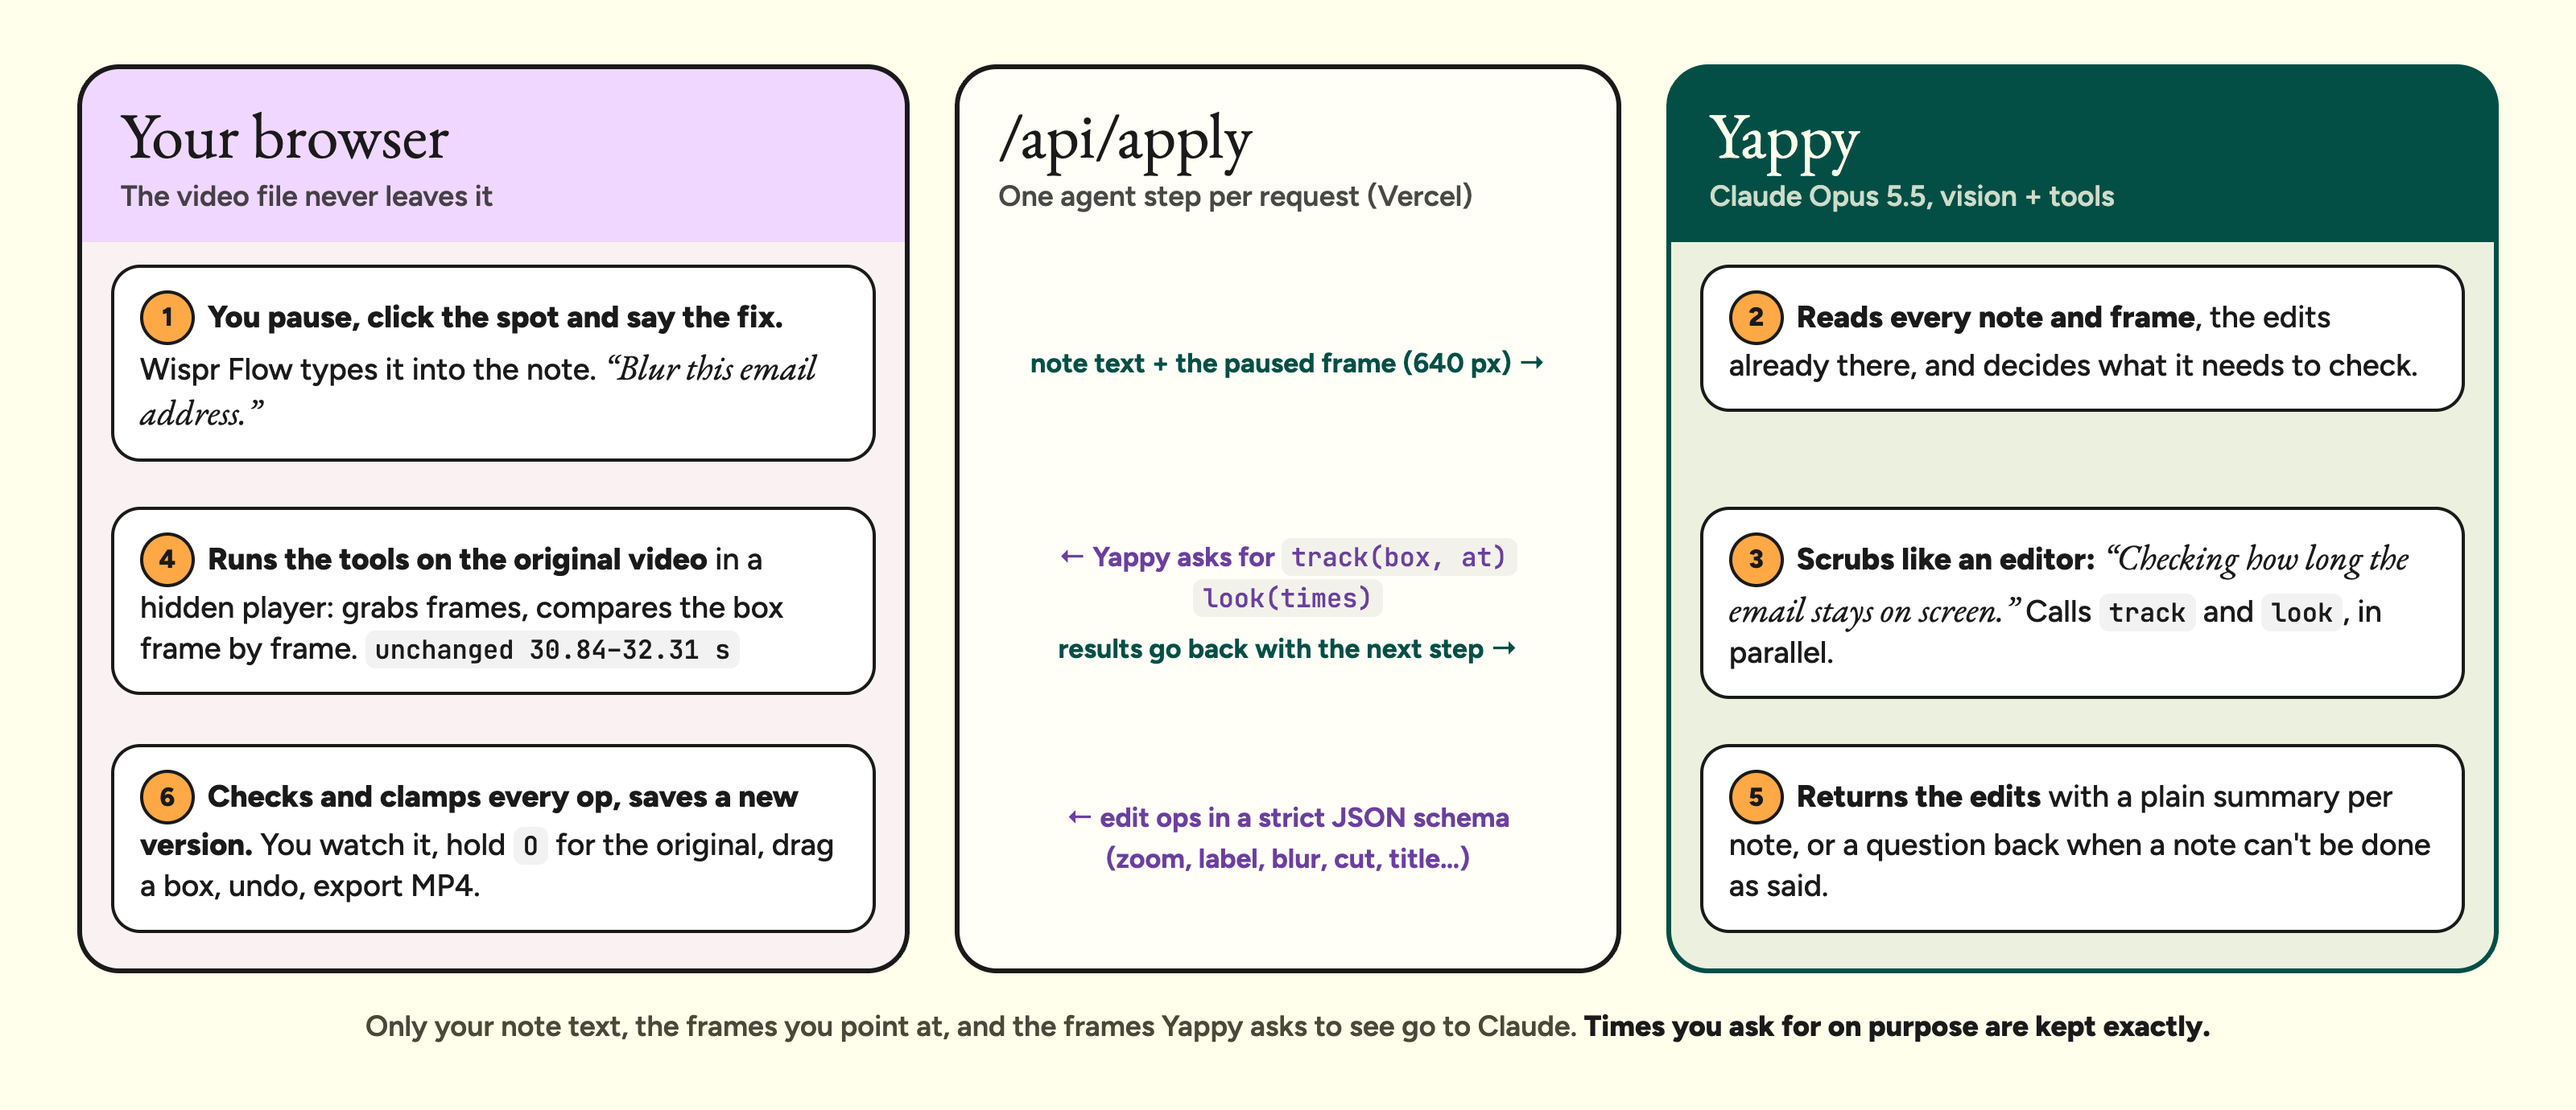
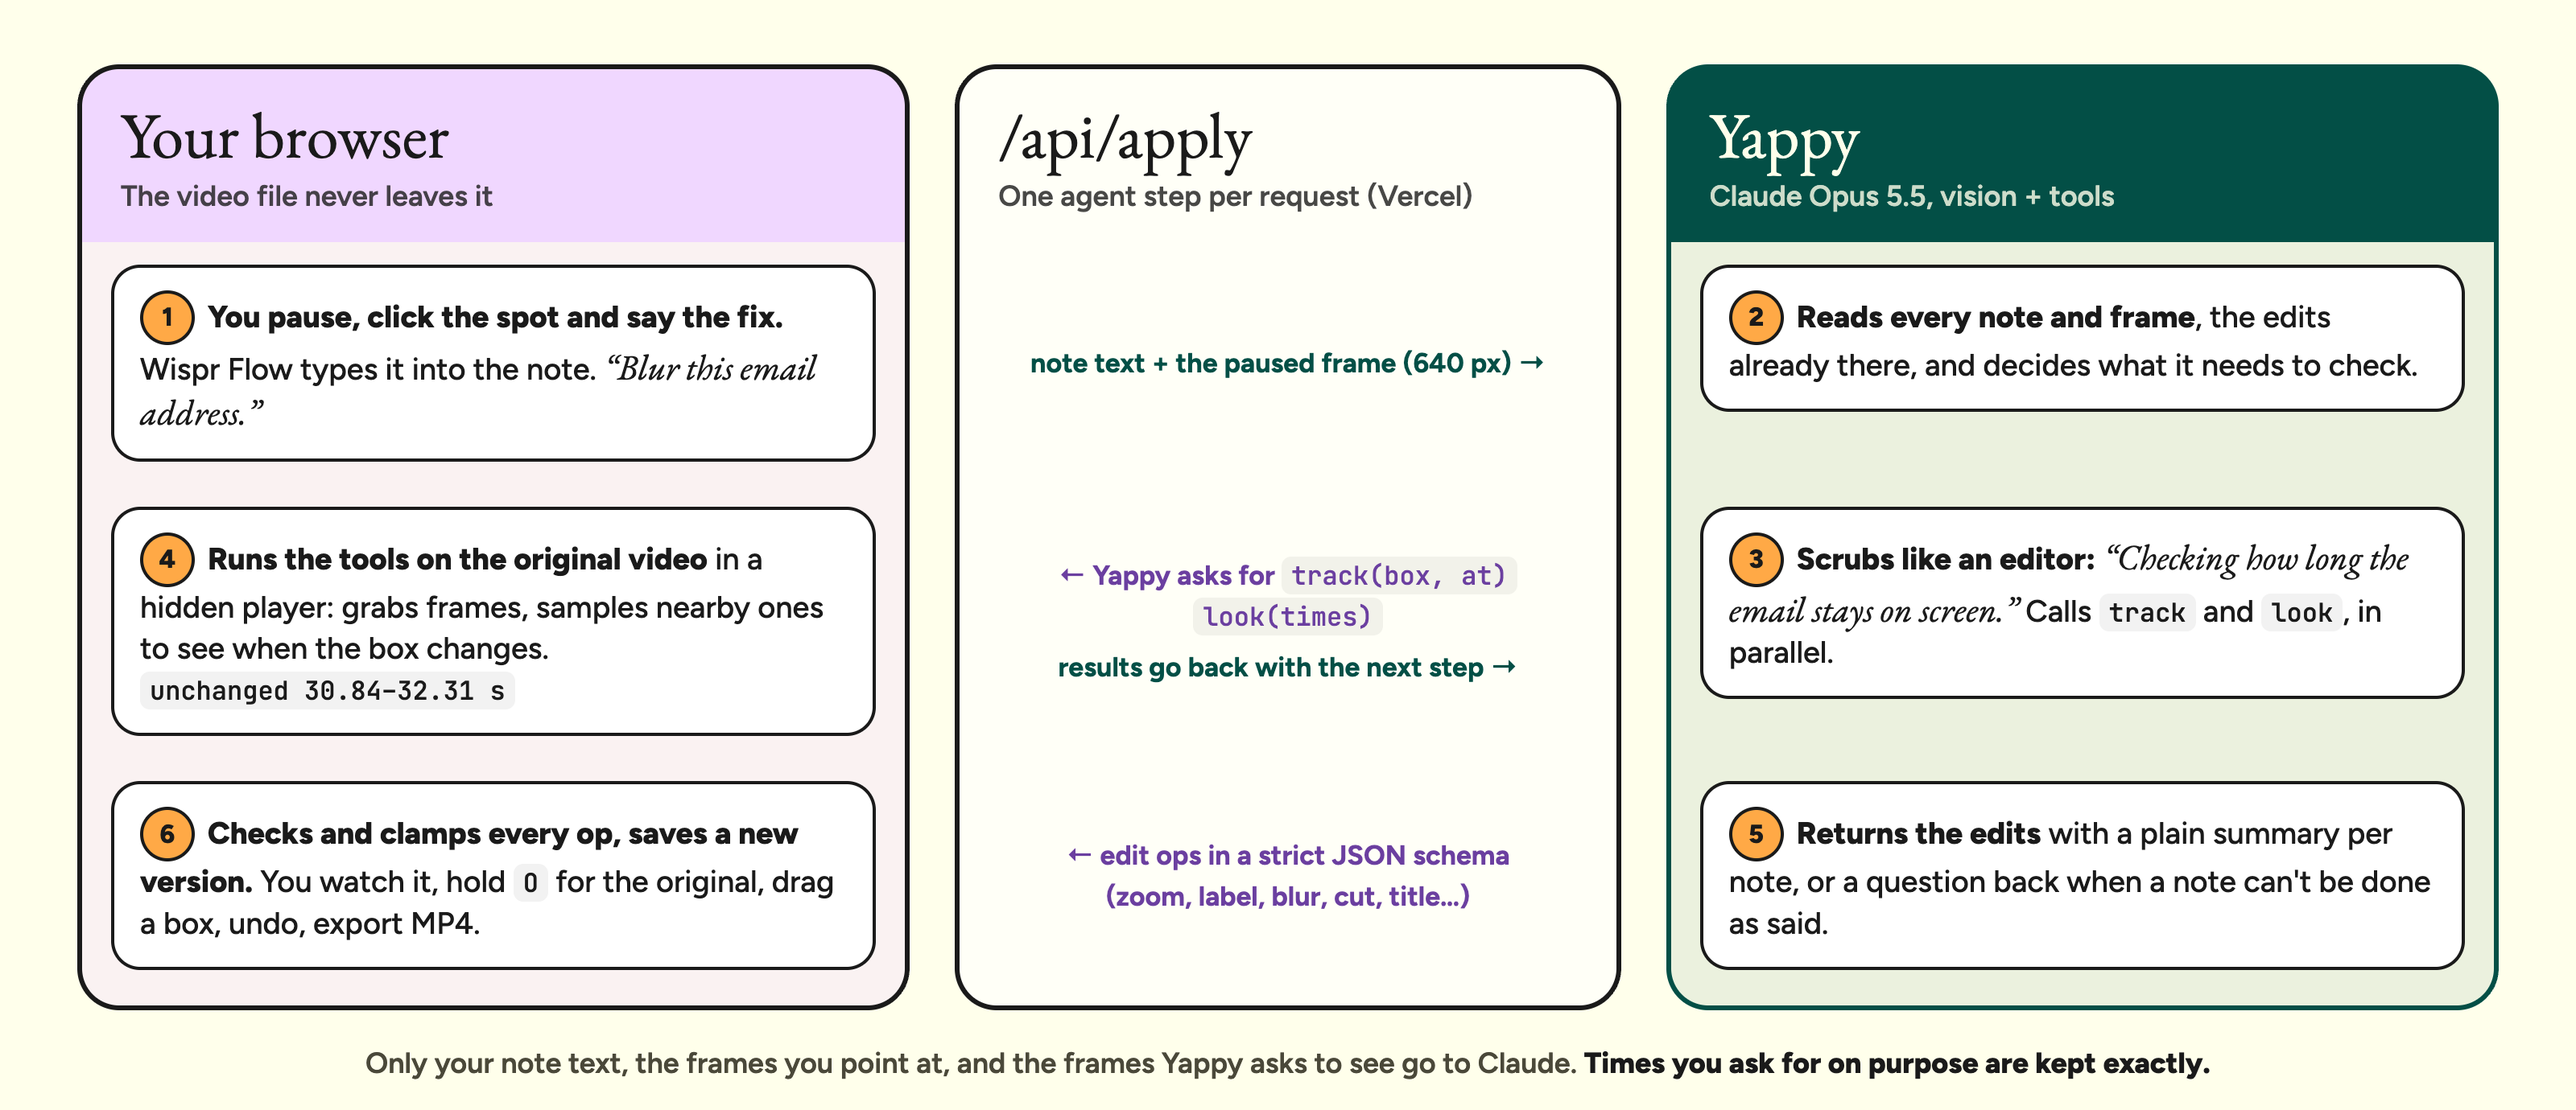
Compare returns to the exact spot; precise README wording
- Letting go of hold-O compare restores the edited playhead exactly,
  so a title card or freeze isn't skipped (source time can't express a
  moment inside them)
- README and diagram: tracking samples nearby frames to estimate when a
  fixed box changes; notes list final edit times and positions to check
  each reply against

Changed region(s): [[0.0312, 0.5297, 0.9688, 0.9659], [0.4062, 0.7167, 0.5938, 0.8413], [0.4062, 0.4986, 0.5938, 0.6232]]

diff --git a/docs/media/src/how-yappy-works.html b/docs/media/src/how-yappy-works.html
@@ -45,7 +45,7 @@
     <div class="cell c3"><div class="card"><span class="n">2</span><b>Reads every note and frame</b>, the edits already there, and decides what it needs to check.</div></div>
   </div>
   <div class="rows">
-    <div class="cell c1"><div class="card"><span class="n">4</span><b>Runs the tools on the original video</b> in a hidden player: grabs frames, compares the box frame by frame. <code>unchanged 30.84–32.31 s</code></div></div>
+    <div class="cell c1"><div class="card"><span class="n">4</span><b>Runs the tools on the original video</b> in a hidden player: grabs frames, samples nearby ones to see when the box changes. <code>unchanged 30.84–32.31 s</code></div></div>
     <div class="cell c2"><div class="arrow left"><span>← Yappy asks for <code>track(box, at)</code> <code>look(times)</code></span><span style="color:#034f46">results go back with the next step →</span></div></div>
     <div class="cell c3"><div class="card"><span class="n">3</span><b>Scrubs like an editor:</b> <span class="quote">“Checking how long the email stays on screen.”</span> Calls <code>track</code> and <code>look</code>, in parallel.</div></div>
   </div>

diff --git a/src/App.tsx b/src/App.tsx
@@ -524,14 +524,23 @@ export default function App() {
     }
   };
 
-  // Hold O (or the Original button) to see the untouched footage at this same moment.
+  // Hold O (or the Original button) to see the untouched footage at this same
+  // moment. Letting go returns to the exact edited position, which a source time
+  // can't express inside a title card or freeze.
+  const peekFrom = useRef(0);
   const peek = useCallback(
     (on: boolean) => {
       if (!player || exporting || on === peeking) return;
-      const srcT = locate(player.segs, player.outT).srcT;
       player.pause();
-      player.setEdits(on ? [] : viewEdits);
-      player.seek(on ? srcT : srcToOut(player.segs, srcT));
+      if (on) {
+        peekFrom.current = player.outT;
+        const srcT = locate(player.segs, player.outT).srcT;
+        player.setEdits([]);
+        player.seek(srcT);
+      } else {
+        player.setEdits(viewEdits);
+        player.seek(peekFrom.current);
+      }
       setPeeking(on);
     },
     [player, exporting, peeking, viewEdits],

diff --git a/README.md b/README.md
@@ -63,14 +63,14 @@ Yappy is the editor inside Yapifier: Claude Opus 5.5 with vision and two tools t
 <p align="center"><img src="docs/media/how-yappy-works.png" width="100%" alt="How Yappy works: 1 you pause, click and say the fix; 2 Yappy reads every note and frame; 3 it calls track and look; 4 your browser runs them on the original video and sends the results back; 5 Yappy returns edit ops in a strict JSON schema; 6 the browser checks and clamps every op and saves a new version"></p>
 
 - **`look(times)`** shows Yappy frames from up to six moments: where the dead air really ends, when an animation settles, what comes next.
-- **`track(box, at)`** answers *"how long does this stay on screen?"*. The browser compares that box, frame by frame, with the frame you paused on, and reports when it changes. That's how a blur covers the whole time an email is visible, and not the next scene.
+- **`track(box, at)`** answers *"how long does this stay on screen?"*. The browser samples nearby frames (every half second, then narrowing down to about 0.03 s) and estimates when the content in that fixed box stops matching the frame you paused on. That's how a blur covers the time an email is visible, and not the next scene. It's an estimate for a box that stays put, so check it.
 - **Every op is checked before it lands.** Claude's output is a strict JSON schema, then [`src/edit/ops.ts`](src/edit/ops.ts) validates and clamps each op (times inside the video, boxes inside the frame, sensible zoom and speed), refuses a cut that would remove the whole video, and gives every new blur a safety margin.
 - **Your timing wins.** When you ask for timing on purpose (*"from 5 to 12 seconds"*, *"the whole video"*), Yappy marks it exact and it's kept as given. Otherwise a new overlay is fitted to the time its content looks unchanged, and the note tells you so.
 
 <table>
   <tr>
     <td width="42%"><img src="docs/media/yappy-log.png" alt="How Yappy did it: reading notes, checking where the dead air ends, tracking the email, the button, the prize and the table, a suggested range for the blur, done in 15.7 s"></td>
-    <td><b>Nothing is hidden.</b> After every Apply, <i>How Yappy did it</i> keeps the steps: which frames it looked at, which boxes it tracked and what it found, and anything Yapifier adjusted afterwards.<br><br>Each note then lists the edits it actually produced, worked out from the final version, so a reply can never claim something that didn't happen.</td>
+    <td><b>Nothing is hidden.</b> After every Apply, <i>How Yappy did it</i> keeps the steps: which frames it looked at, which boxes it tracked and what it found, and anything Yapifier adjusted afterwards.<br><br>Each note then lists the edits it produced, with their final times and positions taken from the saved version, so you can check every reply against what was actually applied.</td>
   </tr>
 </table>
 
@@ -171,7 +171,7 @@ Measured on the sample with its five notes (cut, zoom, spotlight, blur, label), 
 |---|---|
 | One Apply, five notes, Claude included | 15.7–20.5 s, with one round of checking the video |
 | Claude calls per Apply | 2 (one to plan and call tools, one to answer), 3 if an answer misses a note |
-| Tracking the email box | on screen 30.84–32.31 s; checked frame by frame, it fades in at about 30.6 s and is gone by 32.2 s |
+| Tracking the email box | estimated on screen 30.84–32.31 s; checked by hand on individual frames, it fades in at about 30.6 s and is gone by 32.2 s |
 | Blur coverage after fitting | 30.49–32.66 s (padding covers the fade) |
 | Export | real time: a 34-second edit takes about 34 seconds |
 
